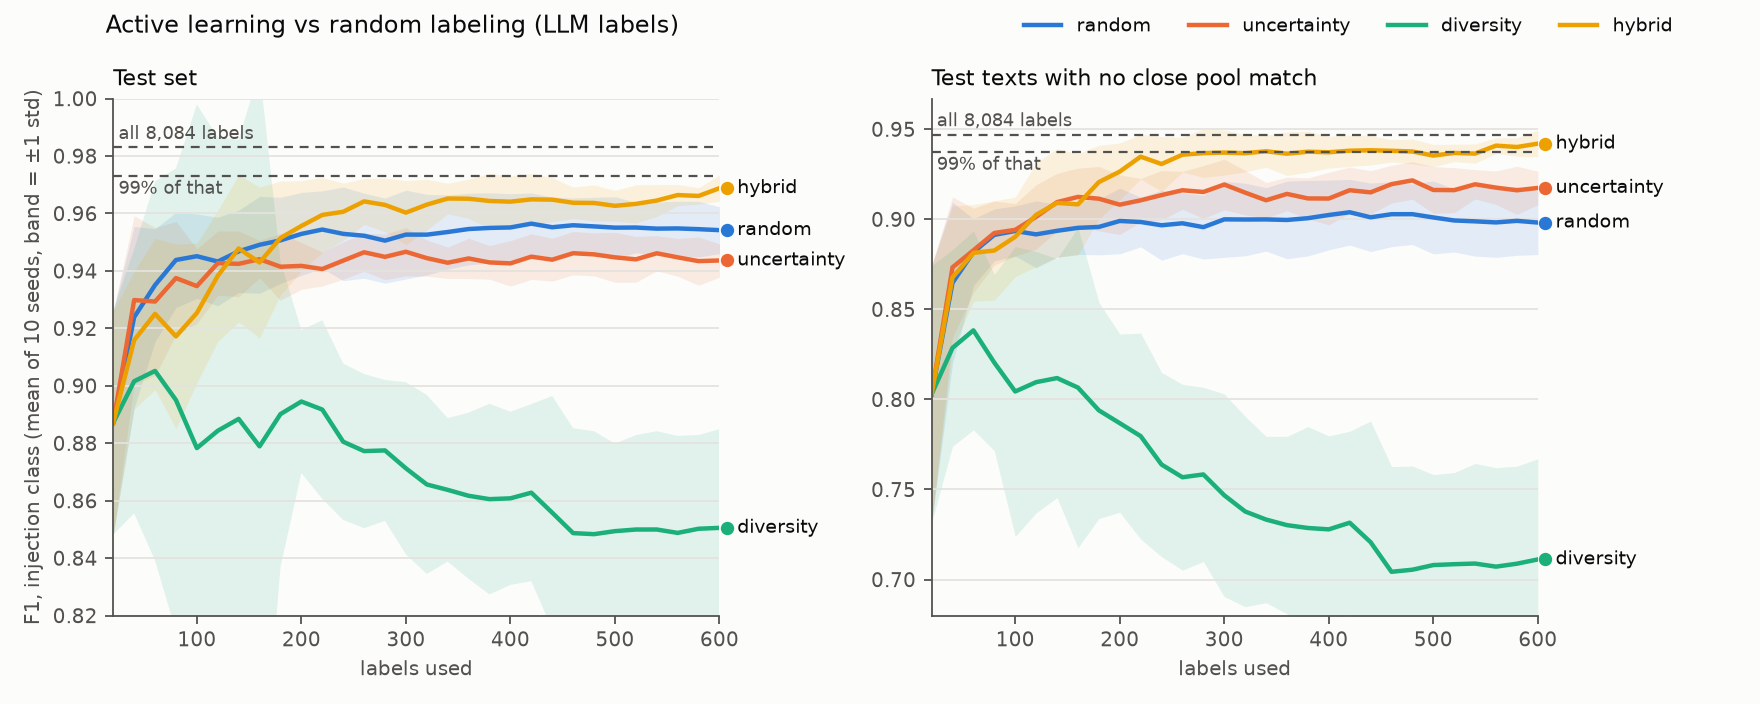
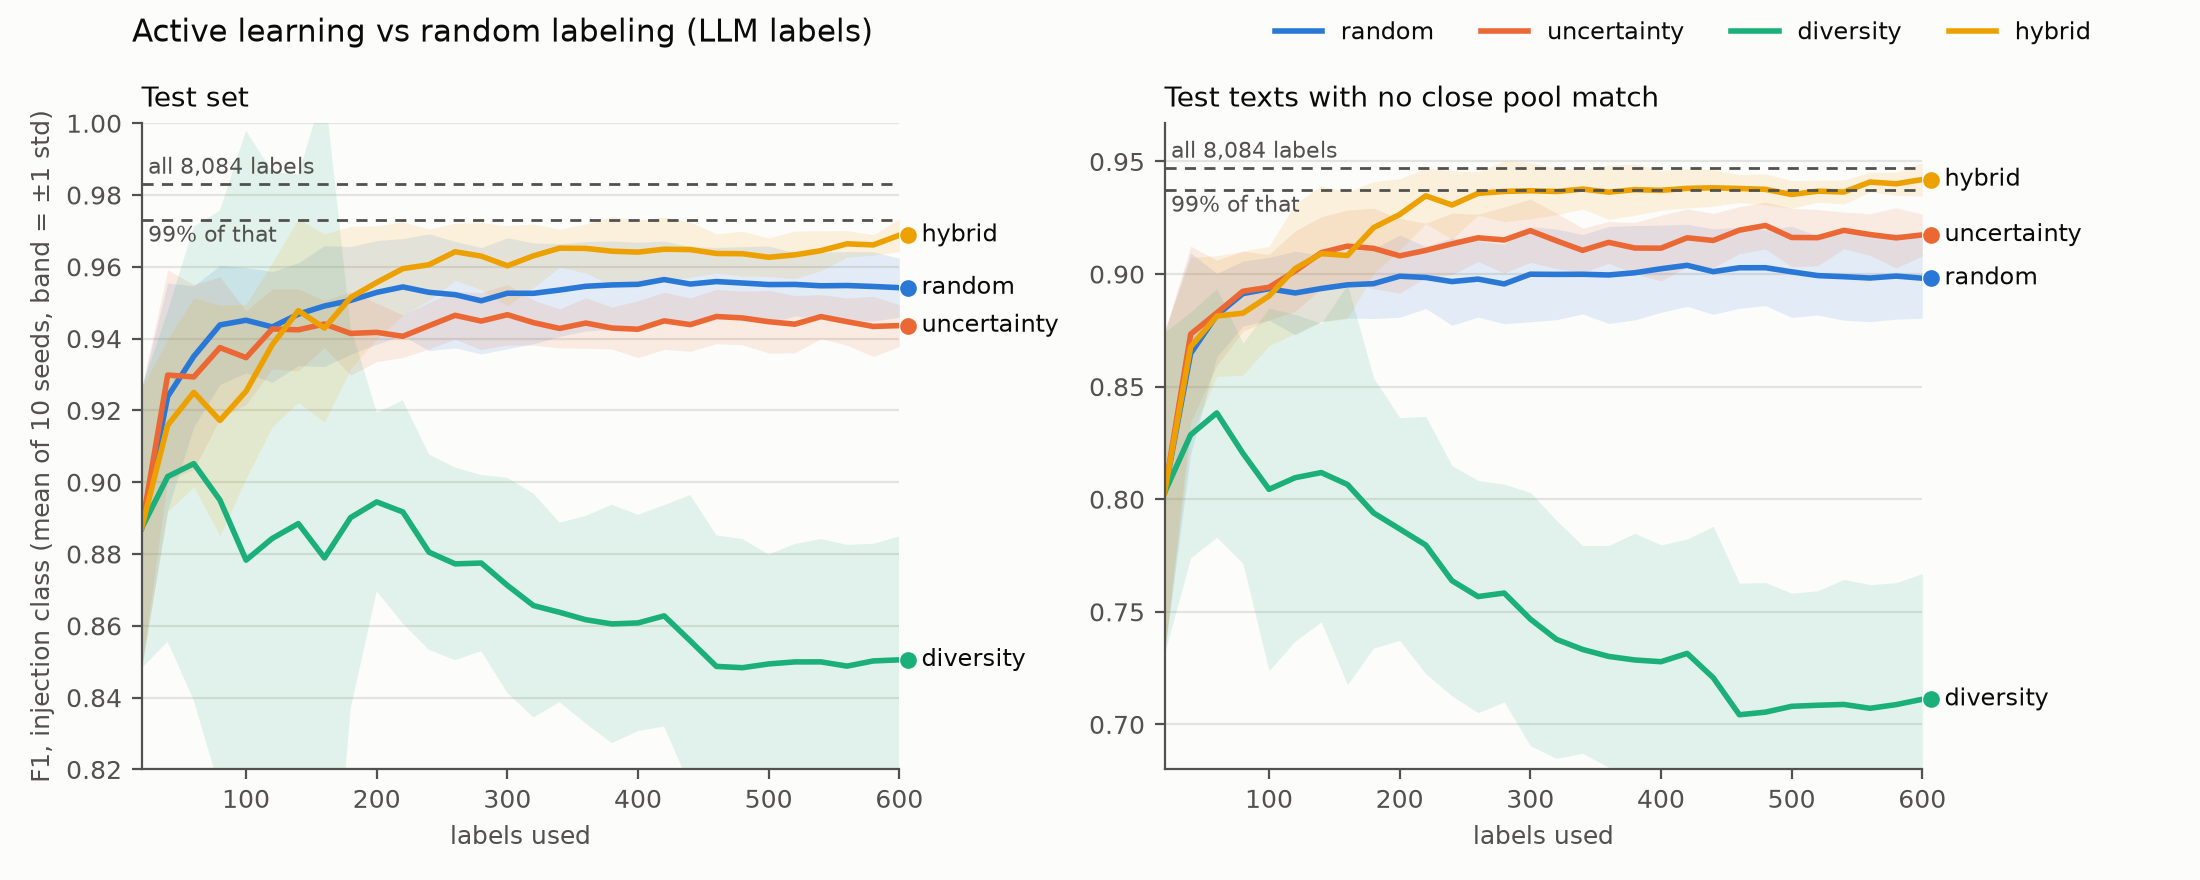
Final figures and shared figure style

diff --git a/scripts/final_figures.py b/scripts/final_figures.py
@@ -1,0 +1,188 @@
+"""Figures not made by earlier scripts: labeler calibration, the feedback loop,
+human labels to target, and transfer by attack type.
+
+    .venv\\Scripts\\python scripts\\final_figures.py
+"""
+from __future__ import annotations
+
+import json
+import sys
+from pathlib import Path
+
+sys.path.insert(0, str(Path(__file__).resolve().parent.parent))
+
+import matplotlib  # noqa: E402
+
+matplotlib.use("Agg")
+import matplotlib.pyplot as plt  # noqa: E402
+import numpy as np  # noqa: E402
+import pandas as pd  # noqa: E402
+from matplotlib.lines import Line2D  # noqa: E402
+from matplotlib.patches import Patch  # noqa: E402
+
+from detect.config import RESULTS  # noqa: E402
+from detect.style import COLORS, DPI, INK, INK2, REFERENCE, SURFACE, apply, tidy  # noqa: E402
+
+FIGS = RESULTS / "figures"
+STRATS = ["random", "uncertainty", "diversity", "hybrid"]
+LABELERS = {"perfect": "dataset labels", "llm": "LLM labels only", "routed90": "LLM, human below 0.9"}
+KEPT, ROUTED = "#52514e", "#c9c8c3"
+LIGHT = 0.45   # alpha for the hatched (secondary) part of a bar
+
+
+def save(fig, name: str) -> None:
+    path = FIGS / name
+    fig.savefig(path, dpi=DPI, facecolor=SURFACE)
+    plt.close(fig)
+    print(f"wrote {path}")
+
+
+def calibration() -> None:
+    acc = json.loads((RESULTS / "labeler" / "accuracy.json").read_text())
+    bins = acc["calibration"]
+    edges = [tuple(float(v) for v in b["confidence"].split("-")) for b in bins]
+    at_09 = next(c for c in acc["coverage"] if c["threshold"] == 0.9)
+
+    fig, ax = plt.subplots(figsize=(7.5, 4.4), facecolor=SURFACE)
+    tidy(ax)
+    x = np.arange(len(bins))
+    ax.bar(x, [b["accuracy"] for b in bins], width=0.72, edgecolor=SURFACE, linewidth=2,
+           color=[KEPT if lo >= 0.9 else ROUTED for lo, _ in edges])
+    ax.scatter(x, [(lo + hi) / 2 for lo, hi in edges], marker="_", s=420, linewidths=1.6, color=INK, zorder=3)
+    for xi, b in zip(x, bins):
+        ax.text(xi, b["accuracy"] + 0.015, f"{b['accuracy']:.0%}", ha="center", fontsize=8, color=INK)
+    ax.axvline(3.5, color=INK2, linewidth=1, linestyle=(0, (4, 3)))
+    ax.text(3.42, 1.1, "sent to the human", ha="right", fontsize=8, color=INK2)
+    ax.text(3.58, 1.1, f"LLM label kept: {at_09['share_confident']:.0%} of texts, "
+            f"{at_09['accuracy_confident']:.1%} correct", fontsize=8, color=INK2)
+    ax.set_xticks(x, [f"{lo:.2f}–{hi:.2f}\n{b['texts']:,}" for (lo, hi), b in zip(edges, bins)], fontsize=8)
+    ax.set_xlabel("LLM's confidence in its own label (texts per bin below)")
+    ax.set_ylabel("share matching the dataset label")
+    ax.set_ylim(0, 1.16)
+    ax.set_yticks([0, 0.25, 0.5, 0.75, 1.0], ["0%", "25%", "50%", "75%", "100%"])
+    ax.legend(handles=[Line2D([], [], marker="_", markersize=14, linestyle="none", color=INK,
+                              label="accuracy if confidence were exact")],
+              frameon=False, fontsize=8, loc="upper left", bbox_to_anchor=(0, 0.93))
+    ax.set_title(f"The LLM labeler's confidence tracks its accuracy ({acc['scored_texts']:,} pool texts)",
+                 loc="left", fontsize=10)
+    fig.tight_layout()
+    save(fig, "labeler_calibration.png")
+
+
+def feedback_loop() -> None:
+    comp = {lab: pd.read_csv(RESULTS / f"strategy_comparison_{lab}.csv").set_index("strategy") for lab in LABELERS}
+    fig, (a, b) = plt.subplots(1, 2, figsize=(12, 4.6), facecolor=SURFACE, gridspec_kw={"width_ratios": [2, 3]})
+    w = 0.2
+    for ax, labs in [(a, ["llm", "routed90"]), (b, list(LABELERS))]:
+        tidy(ax)
+        for i, s in enumerate(STRATS):
+            xs = np.arange(len(labs)) + (i - 1.5) * w
+            if ax is a:
+                missed = np.array([comp[lab].loc[s, "wrong_label_missed_injection"] for lab in labs])
+                false = np.array([comp[lab].loc[s, "wrong_label_false_injection"] for lab in labs])
+                ax.bar(xs, missed, w, color=COLORS[s], edgecolor=SURFACE, linewidth=1, label=s)
+                ax.bar(xs, false, w, bottom=missed, color=COLORS[s], alpha=LIGHT, hatch="////",
+                       edgecolor=SURFACE, linewidth=1)
+                tops = missed + false
+            else:
+                tops = np.array([comp[lab].loc[s, "near_copies_in_labeled_set"] for lab in labs])
+                ax.bar(xs, tops, w, color=COLORS[s], edgecolor=SURFACE, linewidth=1)
+            for xi, t in zip(xs, tops):
+                ax.text(xi, t + 2, f"{t:.0f}", ha="center", fontsize=7.5, color=INK)
+        ax.set_xticks(range(len(labs)), [LABELERS[lab] for lab in labs])
+    a.set_title("Wrong labels among the 600 each strategy chose", loc="left", fontsize=10)
+    a.set_ylabel("labels (mean of 10 seeds)")
+    a.legend(handles=[Patch(facecolor=INK2, label="injection labeled benign"),
+                      Patch(facecolor=INK2, alpha=LIGHT, hatch="////", edgecolor=SURFACE,
+                            label="benign labeled injection")],
+             frameon=False, fontsize=8, loc="upper right")
+    b.set_title("Near-copies among those 600 (another chosen text at cosine ≥ 0.95)", loc="left", fontsize=10)
+    b.set_ylabel("texts (mean of 10 seeds)")
+    handles, names = a.get_legend_handles_labels()
+    fig.legend(handles[:4], names[:4], loc="upper left", ncol=4, frameon=False, fontsize=8.5,
+               bbox_to_anchor=(0.05, 0.95))
+    fig.suptitle("With LLM labels, uncertainty sampling piles up the labeler's misses and keeps asking about them",
+                 x=0.06, ha="left", fontsize=11)
+    fig.tight_layout(rect=(0, 0, 1, 0.89))
+    save(fig, "feedback_loop.png")
+
+
+def human_labels() -> None:
+    names = {"perfect": "all from the human", "routed90": "human below 0.9", "routed80": "human below 0.8"}
+    t = pd.read_csv(RESULTS / "analysis" / "labels_to_target.csv")
+    t = t[t.labeler.isin(names) & (t.strategy != "diversity")].copy()
+    t["human"] = pd.to_numeric(t.human_to_test_99, errors="coerce")
+    t["total"] = pd.to_numeric(t.test_99.str.split().str[0], errors="coerce")
+    t = t.dropna(subset=["human"]).sort_values("human")
+
+    fig, ax = plt.subplots(figsize=(8, 4.6), facecolor=SURFACE)
+    tidy(ax, "x")
+    y = np.arange(len(t))
+    colors = [COLORS[s] for s in t.strategy]
+    ax.barh(y, t.total, 0.66, color=colors, alpha=0.25, edgecolor=SURFACE, linewidth=2)
+    ax.barh(y, t.human, 0.66, color=colors, edgecolor=SURFACE, linewidth=2)
+    for yi, r in zip(y, t.itertuples()):
+        txt = f"{r.human:g}" if r.labeler == "perfect" else f"{r.human:g} human, of {r.total:g} labels"
+        ax.text(r.total + 4, yi, txt, va="center", fontsize=8, color=INK)
+    ax.set_yticks(y, [f"{r.strategy}, {names[r.labeler]}" for r in t.itertuples()])
+    ax.set_xlabel("labels to reach 99% of the full-data F1 (median of 10 seeds)")
+    ax.set_xlim(0, 330)
+    ax.legend(handles=[Patch(facecolor=INK2, label="from the human"),
+                       Patch(facecolor=INK2, alpha=0.25, label="from the LLM")],
+              frameon=False, fontsize=8, loc="lower right")
+    ax.set_title("Human labels needed for a near-ceiling detector", loc="left", fontsize=10)
+    fig.text(0.01, 0.01, "Every run shown reaches the target on all 10 seeds. With LLM labels alone, random and "
+             "uncertainty sampling never reach it within 600;\ndiversity sampling never reaches it with any labeler.",
+             fontsize=7.5, color=INK2)
+    fig.tight_layout(rect=(0, 0.06, 1, 1))
+    save(fig, "human_labels_to_target.png")
+
+
+def transfer() -> None:
+    sets = [("test_recall", "Test set"), ("test_far_recall", "Test, no close pool match"),
+            ("lab_indirect_recall", "Lab: document payloads"), ("lab_leakage_recall", "Lab: leakage"),
+            ("lab_direct_recall", "Lab: direct attacks"), ("deepset_recall", "deepset")]
+    detectors = [("all 8,084 dataset labels", "all 8,084 dataset labels", REFERENCE, None),
+                 ("uncertainty / perfect", "uncertainty, 600 dataset labels", COLORS["uncertainty"], None),
+                 ("hybrid / routed90", "hybrid, 600 labels, human below 0.9 (best)", COLORS["hybrid"], None),
+                 ("hybrid / llm", "hybrid, 600 LLM labels", COLORS["hybrid"], "////")]
+    t = pd.read_csv(RESULTS / "transfer" / "transfer_summary.csv").set_index("detector")
+
+    fig, ax = plt.subplots(figsize=(8, 5.6), facecolor=SURFACE)
+    tidy(ax, "x")
+    h = 0.19
+    for i, (key, label, color, hatch) in enumerate(detectors):
+        ys = np.arange(len(sets)) + (i - 1.5) * h
+        vals = [t.loc[key, col] for col, _ in sets]
+        ax.barh(ys, vals, h, color=color, alpha=LIGHT if hatch else 1, hatch=hatch,
+                edgecolor=SURFACE, linewidth=1, label=label)
+        if key == "hybrid / routed90":
+            for yi, v in zip(ys, vals):
+                ax.text(v + 0.01, yi, f"{v:.0%}", va="center", fontsize=7.5, color=INK)
+    ax.axhline(1.5, color=INK2, linewidth=0.8)
+    ax.text(1.12, 0.5, "in\ndistribution", fontsize=8, color=INK2, va="center", ha="right")
+    ax.text(1.12, 3.5, "outside", fontsize=8, color=INK2, va="center", ha="right")
+    ax.set_yticks(range(len(sets)), [name for _, name in sets])
+    ax.invert_yaxis()
+    ax.set_xlim(0, 1.12)
+    ax.set_xticks([0, 0.25, 0.5, 0.75, 1.0], ["0%", "25%", "50%", "75%", "100%"])
+    ax.set_xlabel("attacks caught (recall, mean of 10 seeds)")
+    ax.legend(frameon=False, fontsize=8, loc="upper center", bbox_to_anchor=(0.45, -0.12), ncol=2)
+    ax.set_title("Detectors catch attacks that look like the training data, and miss disguised ones",
+                 loc="left", fontsize=10)
+    fig.tight_layout()
+    save(fig, "transfer_recall.png")
+
+
+def main() -> int:
+    FIGS.mkdir(parents=True, exist_ok=True)
+    apply()
+    calibration()
+    feedback_loop()
+    human_labels()
+    transfer()
+    return 0
+
+
+if __name__ == "__main__":
+    raise SystemExit(main())

diff --git a/scripts/analysis.py b/scripts/analysis.py
@@ -20,6 +20,7 @@ from scipy.stats import t as student_t, ttest_rel, wilcoxon  # noqa: E402
 
 from detect.config import RESULTS  # noqa: E402
 from detect.curve import CEILING_F1, median_censored, summarise  # noqa: E402
+from detect.style import COLORS, DPI, INK2, SURFACE, apply, tidy  # noqa: E402
 
 STRATS = ["random", "uncertainty", "diversity", "hybrid"]
 LABELERS = ["perfect", "llm", "routed80", "routed90"]
@@ -116,37 +117,31 @@ def main() -> int:
 
 
 def headline_figure(path: Path) -> None:
-    colors = {"random": "#2a78d6", "uncertainty": "#eb6834", "hybrid": "#eda100"}
     panels = [("perfect", "Dataset labels"), ("llm", "LLM labels only"), ("routed90", "LLM, human below 0.9")]
-    surface, ink2, grid = "#fcfcfb", "#52514e", "#e4e3df"
-    plt.rcParams.update({"font.size": 9, "axes.edgecolor": ink2, "axes.labelcolor": ink2,
-                         "xtick.color": ink2, "ytick.color": ink2})
-    fig, axes = plt.subplots(1, 3, figsize=(12, 4.2), sharey=True, facecolor=surface)
+    apply()
+    fig, axes = plt.subplots(1, 3, figsize=(12, 4.2), sharey=True, facecolor=SURFACE)
     for ax, (lab, title) in zip(axes, panels):
-        ax.set_facecolor(surface)
-        for s, c in colors.items():
+        tidy(ax)
+        for s in ["random", "uncertainty", "hybrid"]:
             df = pd.read_csv(RESULTS / "curves" / f"al_{s}_{lab}.csv")
             g = df.groupby("budget").test_f1
             m, sd, n = g.mean(), g.std(), g.count()
             half = student_t.ppf(0.975, n - 1) * sd / np.sqrt(n)
-            ax.fill_between(m.index, m - half, m + half, color=c, alpha=0.18, linewidth=0)
-            ax.plot(m.index, m.values, color=c, linewidth=2, label=s)
-        ax.axhline(CEILING_F1, color=ink2, linewidth=1, linestyle=(0, (4, 3)))
+            ax.fill_between(m.index, m - half, m + half, color=COLORS[s], alpha=0.18, linewidth=0)
+            ax.plot(m.index, m.values, color=COLORS[s], linewidth=2, label=s)
+        ax.axhline(CEILING_F1, color=INK2, linewidth=1, linestyle=(0, (4, 3)))
         ax.set_title(title, loc="left", fontsize=10)
         ax.set_xlim(20, 600)
         ax.set_ylim(0.90, 0.995)
         ax.set_xlabel("labels used")
-        ax.grid(axis="y", color=grid, linewidth=0.8)
-        for side in ("top", "right"):
-            ax.spines[side].set_visible(False)
-    axes[0].text(25, CEILING_F1 + 0.001, "all 8,084 dataset labels", color=ink2, fontsize=8, va="bottom")
+    # middle panel: no curve near the ceiling line
+    axes[1].text(25, CEILING_F1 + 0.001, "all 8,084 dataset labels", color=INK2, fontsize=8, va="bottom")
     axes[0].set_ylabel("test F1 (mean of 10 seeds, band = 95% CI)")
     handles, names = axes[0].get_legend_handles_labels()
     fig.legend(handles, names, loc="upper right", ncol=3, frameon=False, fontsize=8.5, bbox_to_anchor=(0.98, 1.0))
     fig.suptitle("Which strategy wins depends on who labels", x=0.06, ha="left", fontsize=11)
     fig.tight_layout(rect=(0, 0, 1, 0.95))
-    fig.savefig(path, dpi=160, facecolor=surface)
-
+    fig.savefig(path, dpi=DPI, facecolor=SURFACE)
 
 if __name__ == "__main__":
     raise SystemExit(main())

diff --git a/scripts/plot_curves.py b/scripts/plot_curves.py
@@ -20,10 +20,8 @@ import pandas as pd  # noqa: E402
 from detect.config import RESULTS  # noqa: E402
 from detect.curve import CEILING_F1, CEILING_FAR_F1  # noqa: E402
 from detect.strategies import STRATEGIES  # noqa: E402
+from detect.style import COLORS, DPI, INK, INK2, SURFACE, apply, tidy  # noqa: E402
 
-# validated categorical slots 1-4, light surface (adjacent CVD ΔE ≥ 9.1)
-COLORS = {"random": "#2a78d6", "uncertainty": "#eb6834", "diversity": "#1baf7a", "hybrid": "#eda100"}
-SURFACE, INK, INK2, GRID = "#fcfcfb", "#0b0b0b", "#52514e", "#e4e3df"
 PANELS = [("test_f1", "Test set", CEILING_F1),
           ("test_far_f1", "Test texts with no close pool match", CEILING_FAR_F1)]
 TITLES = {"perfect": "dataset labels", "llm": "LLM labels"}
@@ -59,12 +57,11 @@ def main() -> int:
     curves = {s: pd.read_csv(f) for s in STRATEGIES
               if (f := RESULTS / "curves" / f"al_{s}_{args.labeler}.csv").exists()}
 
-    plt.rcParams.update({"font.size": 9, "axes.edgecolor": INK2, "axes.labelcolor": INK2,
-                         "xtick.color": INK2, "ytick.color": INK2, "text.color": INK})
+    apply()
     fig, axes = plt.subplots(1, 2, figsize=(11, 4.4), facecolor=SURFACE, sharex=True)
     for ax, (col, title, ceiling) in zip(axes, PANELS):
         ylim = y_range(curves, col, ceiling)
-        ax.set_facecolor(SURFACE)
+        tidy(ax)
         ends = {}
         for s, df in curves.items():
             g = df.groupby("budget")[col]
@@ -83,9 +80,6 @@ def main() -> int:
         ax.set_xlim(20, 600)
         ax.set_ylim(*ylim)
         ax.set_xlabel("labels used")
-        ax.grid(axis="y", color=GRID, linewidth=0.8)
-        for side in ("top", "right"):
-            ax.spines[side].set_visible(False)
     axes[0].set_ylabel("F1, injection class (mean of 10 seeds, band = ±1 std)")
     handles, names = axes[0].get_legend_handles_labels()
     fig.legend(handles, names, loc="upper right", ncol=len(names), frameon=False, fontsize=8.5,
@@ -97,7 +91,7 @@ def main() -> int:
     out = RESULTS / "figures"
     out.mkdir(parents=True, exist_ok=True)
     path = out / f"curves_{args.labeler}.png"
-    fig.savefig(path, dpi=160, facecolor=SURFACE)
+    fig.savefig(path, dpi=DPI, facecolor=SURFACE)
     print(f"wrote {path}")
     return 0
 

diff --git a/scripts/sweep_threshold.py b/scripts/sweep_threshold.py
@@ -23,10 +23,9 @@ import pandas as pd  # noqa: E402
 from detect.config import RESULTS, ROOT  # noqa: E402
 from detect.curve import median_censored, summarise  # noqa: E402
 from detect.strategies import STRATEGIES  # noqa: E402
+from detect.style import COLORS, DPI, INK2, SURFACE, apply, tidy  # noqa: E402
 
 TAUS = [0.6, 0.7, 0.8, 0.9, 0.95, 0.99]
-COLORS = {"random": "#2a78d6", "uncertainty": "#eb6834", "diversity": "#1baf7a", "hybrid": "#eda100"}
-SURFACE, INK, INK2, GRID = "#fcfcfb", "#0b0b0b", "#52514e", "#e4e3df"
 
 
 def ensure_run(strategy: str, labeler: str) -> pd.DataFrame:
@@ -59,10 +58,9 @@ TAU_LABEL_OFFSET = {"random": (2, -11), "uncertainty": (5, -2), "hybrid": (-4, 6
 
 
 def plot(table: pd.DataFrame, path: Path) -> None:
-    plt.rcParams.update({"font.size": 9, "axes.edgecolor": INK2, "axes.labelcolor": INK2,
-                         "xtick.color": INK2, "ytick.color": INK2, "text.color": INK})
+    apply()
     fig, ax = plt.subplots(figsize=(7.5, 4.6), facecolor=SURFACE)
-    ax.set_facecolor(SURFACE)
+    tidy(ax, "both")
     for s in PLOTTED:
         g = table[table.strategy == s].sort_values("human_pct")
         ax.plot(g.human_pct, g.f1_600, color=COLORS[s], linewidth=2, marker="o", markersize=5, label=s)
@@ -77,12 +75,9 @@ def plot(table: pd.DataFrame, path: Path) -> None:
     ax.set_title("Human effort vs detector quality, by routing threshold\n"
                  "(diversity stays below 0.95 at every threshold; see the table)",
                  loc="left", fontsize=10)
-    ax.grid(color=GRID, linewidth=0.8)
-    for side in ("top", "right"):
-        ax.spines[side].set_visible(False)
     ax.legend(frameon=False, fontsize=8.5, loc="lower right")
     fig.tight_layout()
-    fig.savefig(path, dpi=160, facecolor=SURFACE)
+    fig.savefig(path, dpi=DPI, facecolor=SURFACE)
 
 
 def main() -> int:

diff --git a/detect/style.py b/detect/style.py
@@ -1,0 +1,25 @@
+"""Shared figure style: one color per strategy across every figure."""
+from __future__ import annotations
+
+import matplotlib.pyplot as plt
+
+# validated categorical slots 1-4, light surface (adjacent CVD ΔE ≥ 9.1)
+COLORS = {"random": "#2a78d6", "uncertainty": "#eb6834", "diversity": "#1baf7a", "hybrid": "#eda100"}
+SURFACE, INK, INK2, GRID = "#fcfcfb", "#0b0b0b", "#52514e", "#e4e3df"
+REFERENCE = "#8a8984"   # the full-data model
+DPI = 200
+
+
+def apply() -> None:
+    plt.rcParams.update({"font.size": 9, "axes.edgecolor": INK2, "axes.labelcolor": INK2,
+                         "xtick.color": INK2, "ytick.color": INK2, "text.color": INK,
+                         "hatch.color": SURFACE, "hatch.linewidth": 1.2})
+
+
+def tidy(ax, grid_axis: str = "y") -> None:
+    """Surface, light grid, no top/right spines."""
+    ax.set_facecolor(SURFACE)
+    ax.grid(axis=grid_axis, color=GRID, linewidth=0.8)
+    ax.set_axisbelow(True)
+    for side in ("top", "right"):
+        ax.spines[side].set_visible(False)

diff --git a/docs/findings.md b/docs/findings.md
@@ -39,7 +39,7 @@ One correction made during analysis: an earlier note said LLM labels *reverse* u
 
 1. **Label choice beats label count.** With dataset labels, uncertainty sampling reaches 99% of the ceiling in a median of 60 labels against random's 260 (curve area +0.012, 10/10 seeds, Holm p < 0.0001), and at 600 labels both uncertainty (0.987) and hybrid (0.988) exceed the model trained on all 8,084 labels (0.983).
 2. **A noisy labeler turns uncertainty sampling against itself.** With LLM labels, 36% of the labels in uncertainty sampling's training set are wrong, against 9% for random. It repeatedly queries the injections the LLM calls benign (175 such labels against random's 27), which keeps that region ambiguous, so it queries near-copies of the same texts (104 near-duplicates against 15 with correct labels).
-3. **The hybrid strategy is the robust choice.** Its spread-out step forbids near-duplicates, which breaks the loop: with LLM labels it ends at F1 0.969 against random's 0.954 (10/10 seeds at 600 labels), and across routing thresholds it gives the best detector for every level of human effort.
+3. **The hybrid strategy is the robust choice.** Its spread-out step never chose a near-duplicate (the 0.4 per labeled set on average all sit in the random starting 20; uncertainty sampling's set has 104), which breaks the loop: with LLM labels it ends at F1 0.969 against random's 0.954 (10/10 seeds at 600 labels), and across routing thresholds it gives the best detector for every level of human effort.
 4. **Routing restores the advantage cheaply.** With low-confidence texts sent to a human, uncertainty sampling's near-duplicates fall back to 23 and its advantage over random returns (+0.011, Holm p < 0.0001). To reach 99% of the ceiling it needs 41 human labels at threshold 0.9 and 27 at 0.8, against 260 for random sampling with all-human labels.
 5. **A labeler's blind spot survives into the detector.** On the held-out lab attacks, uncertainty sampling with LLM labels scores 0.305 lower F1 than random (0/10 seeds), and at threshold 0.8, where in-distribution F1 is already equivalent to dataset labels, it is still 0.058 lower. In-distribution scores do not reveal it.
 6. **Detectors learn the form of an attack, not its intent.** Document payloads that address the AI explicitly are caught every time; direct attacks disguised as ordinary requests (a question with an extra line, a translation, a fill-in-the-blank, string splitting, a fake notice) are missed on every seed, by every detector, including the one trained on all 8,084 labels.
@@ -71,3 +71,17 @@ One correction made during analysis: an earlier note said LLM labels *reverse* u
 - Make uncertainty sampling noise-aware: penalise near-duplicates of already-queried texts, or re-query texts whose labels the detector consistently contradicts.
 - Measure human labeling time per text, so the cost comparison is in minutes rather than labels.
 - Test on attacks disguised as ordinary requests, the class every detector here missed.
+
+## 8. Figures
+
+All in `results/figures/`; every one is regenerated from the results files by the script named.
+
+| Figure | Shows | Script |
+|---|---|---|
+| `headline_curves.png` | Learning curves for random, uncertainty and hybrid under the three labelers | `analysis.py` |
+| `curves_perfect.png`, `curves_llm.png`, `curves_routed90.png` | All four strategies per labeler, on the test set and on test texts with no close pool match | `plot_curves.py` |
+| `labeler_calibration.png` | The labeler's accuracy by its own confidence, and what routing at 0.9 keeps | `final_figures.py` |
+| `feedback_loop.png` | Wrong labels by direction and near-copies in each strategy's 600 labels | `final_figures.py` |
+| `threshold_sweep.png` | Human share of labels against final F1, across routing thresholds | `sweep_threshold.py` |
+| `human_labels_to_target.png` | Human labels needed to reach 99% of the full-data F1 | `final_figures.py` |
+| `transfer_recall.png` | Recall on the test set and on the outside attack sets, by attack type | `final_figures.py` |
